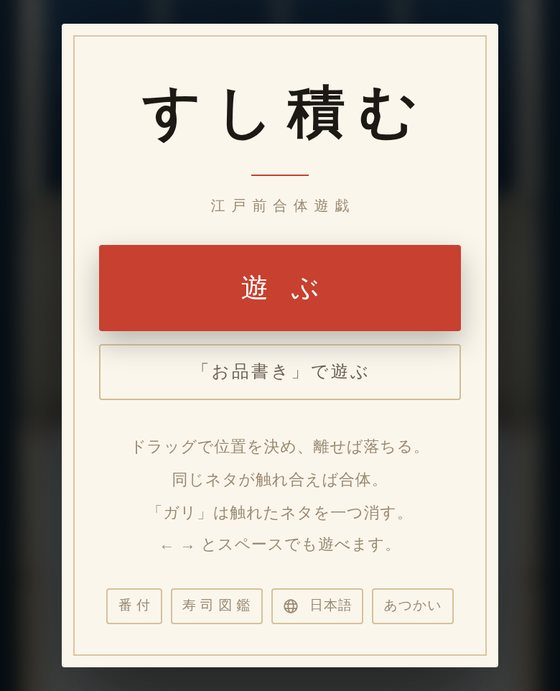
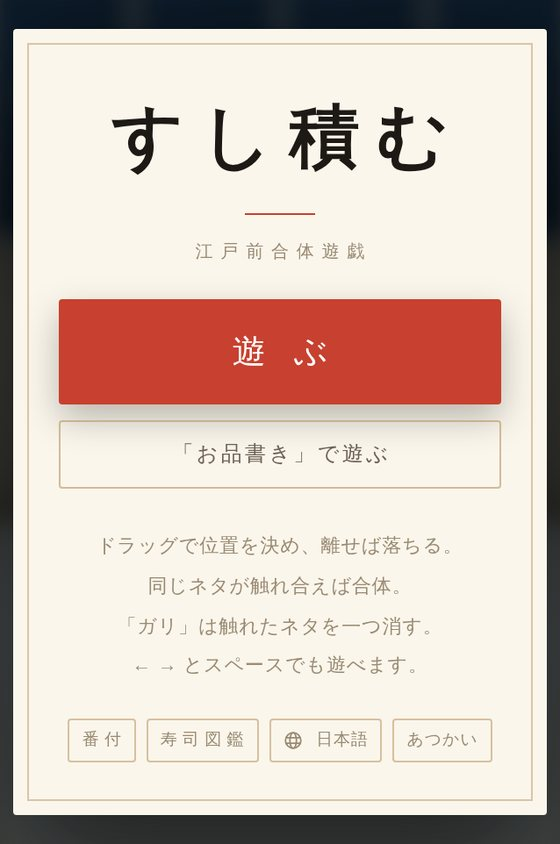
写真の並べ方を直す。頁どうしの行き来を足す
・作品ページ。縦横の比がばらばらな写真を幅で揃えていたので、
  背の高い一枚だけが伸びて列が崩れていた。高さで揃える形に変え、
  入りきらない幅では横に流す。全景（PC）を先に置き、
  その下に表紙・遊んでいるところ・寿司図鑑の三枚。
・遊び方の頁に寿司図鑑の写真を添えた。表の脇に置き、狭いと下に回る。
・表紙の写真を上下だけでなく左右も切り詰めた。
・書いてある寸法と本物が食い違う画像を、audit が見つけるようにした。
  食い違うと、絵が出た瞬間に文章が飛ぶ。わざと崩して効くのを確かめた。
・audit が index.html 以外の頁（遊び方）も見るようにした。
・profile の区分に 3D を足し、三列だと一枚だけ取り残されるので二列に。
・あつかいに、サイト側で覚えている唯一のもの（入口のあいさつの設定）
  を書いた。消したいときの行き先も contact に繋いだ。
・works の説明文を書き直した。

Claude-Session: https://claude.ai/code/session_01925V4x1e14mGAgLgzgK51o

diff --git a/site/style.css b/site/style.css
@@ -231,8 +231,9 @@ footer.site a:hover{color:var(--gold)}
 .note-row p{font-size:13.5px;color:var(--muted);margin:0 0 11px;line-height:1.85}
 @media(max-width:540px){.note-row{grid-template-columns:1fr;gap:8px;padding:20px 14px}}
 
-/* ---- 作っているものの三区分 ---- */
-.kinds{display:grid;grid-template-columns:repeat(3,1fr);gap:16px;margin:0 0 10px}
+/* ---- 作っているものの区分。四つあるので二列。
+     三列だと最後の一枚だけが取り残される ---- */
+.kinds{display:grid;grid-template-columns:repeat(2,1fr);gap:16px;margin:0 0 10px}
 .kind{border:1px solid var(--line);border-radius:6px;padding:22px 20px;
   background:linear-gradient(150deg,rgba(255,255,255,.05),rgba(255,255,255,.012));
   transition:border-color .5s var(--ease),transform .5s var(--ease)}
@@ -559,12 +560,29 @@ h2::after{transform-origin:left center;transition:transform 1.1s var(--ease) .1s
 .ct-soon a{color:var(--sky);text-underline-offset:4px}
 
 /* ---- 画面写真 ---- */
-.shots{display:grid;grid-template-columns:repeat(2,minmax(0,1fr));gap:16px;margin:34px 0 26px}
-.shots figure,.shot-wide{margin:0}
-.shots img,.shot-wide img{width:100%;height:auto;border-radius:6px;
+/* 縦横の比がばらばらな写真を並べるので、幅ではなく高さを揃える。
+   幅で揃えると、背の高い一枚だけが伸びて列が崩れる。
+   入りきらない幅では、横に流して見せる */
+.shots{display:flex;gap:16px;align-items:flex-end;margin:30px 0 26px;
+  overflow-x:auto;padding-bottom:8px;scroll-snap-type:x proximity;
+  scrollbar-width:thin}
+.shots figure{margin:0;flex:0 0 auto;scroll-snap-align:start}
+.shot-wide{margin:0}
+.shots img{height:330px;width:auto;max-width:100%}
+.shots img,.shot-wide img{border-radius:6px;
   border:1px solid var(--line);box-shadow:0 20px 46px -22px #000;display:block}
+.shot-wide img{width:100%;height:auto}
 .shots figcaption,.shot-wide figcaption{margin-top:9px;font-size:11.5px;letter-spacing:.1em;
   color:var(--dim)}
+@media(max-width:720px){.shots img{height:300px}}
 .shot-wide{margin:0 0 34px}
+/* 表の脇に一枚だけ添える形。狭いときは表の下に回す */
+.side-by{display:grid;gap:24px;align-items:start;margin:16px 0 10px}
+@media(min-width:900px){.side-by{grid-template-columns:minmax(0,1fr) 286px}}
+.shot-tall{margin:0}
+.shot-tall img{width:100%;height:auto;border-radius:6px;
+  border:1px solid var(--line);box-shadow:0 20px 46px -22px #000;display:block}
+.shot-tall figcaption{margin-top:9px;font-size:11.5px;letter-spacing:.1em;color:var(--dim)}
+@media(max-width:899px){.shot-tall{max-width:320px;margin:0 auto}}
 @media(max-width:520px){.shots{gap:10px}
-  .shots figcaption,.shot-wide figcaption{font-size:10.5px}}
+  .shots figcaption,.shot-wide figcaption,.shot-tall figcaption{font-size:10.5px}}

diff --git a/site/works/sushitsumu/index.html b/site/works/sushitsumu/index.html
@@ -39,11 +39,18 @@
 
   <p><a class="btn" href="/works/sushitsumu/play/">遊 ぶ</a></p>
 
-  <div class="shots rv">
+  <figure class="shot-wide rv">
+    <picture>
+      <source srcset="/assets/shots/desktop.webp" type="image/webp">
+      <img src="/assets/shots/desktop.jpg" alt="パソコンで遊んだところ。桶の左に得点、右に番付の柱が常に出ている" width="1200" height="831" loading="lazy" decoding="async">
+    </picture>
+    <figcaption>パソコンでは、桶の左に得点、右に番付が常に出ています</figcaption>
+  </figure>
+  <div class="shots rv" data-delay="80">
     <figure>
       <picture>
         <source srcset="/assets/shots/title.webp" type="image/webp">
-        <img src="/assets/shots/title.jpg" alt="すし積むの表紙。藍色の壁に「すし積む」の暖簾がかかり、下に白木のすし桶が置かれている" width="560" height="1212" loading="lazy" decoding="async">
+        <img src="/assets/shots/title.jpg" alt="すし積むの表紙。「すし積む」の題字の下に「遊ぶ」の札が並ぶ" width="560" height="844" loading="lazy" decoding="async">
       </picture>
       <figcaption>表紙</figcaption>
     </figure>
@@ -54,14 +61,14 @@
       </picture>
       <figcaption>遊んでいるところ</figcaption>
     </figure>
+    <figure>
+      <picture>
+        <source srcset="/assets/shots/dex.webp" type="image/webp">
+        <img src="/assets/shots/dex.jpg" alt="寿司図鑑の画面。十二種のうち十種が集まり、二つが ??? のまま残っている" width="560" height="811" loading="lazy" decoding="async">
+      </picture>
+      <figcaption>寿司図鑑</figcaption>
+    </figure>
   </div>
-  <figure class="shot-wide rv" data-delay="80">
-    <picture>
-      <source srcset="/assets/shots/desktop.webp" type="image/webp">
-      <img src="/assets/shots/desktop.jpg" alt="パソコンで遊んだところ。画面の右に番付の柱が常に出ている" width="1200" height="750" loading="lazy" decoding="async">
-    </picture>
-    <figcaption>パソコンでは、画面の右に番付が常に出ています</figcaption>
-  </figure>
 
   <h2 class="rv">どんなゲームか</h2>
   <p>桶の上からシャリを落とします。同じネタ同士が触れると、ひとつ上のネタに変わる。シャリが玉子に、玉子がエビに、エビがサーモンに——そうやって十一段を上っていきます。</p>

diff --git a/site/profile/index.html b/site/profile/index.html
@@ -4,7 +4,7 @@
 <meta charset="utf-8">
 <meta name="viewport" content="width=device-width, initial-scale=1">
 <title>Profile — Koshin Studio について（個人制作）</title>
-<meta name="description" content="Koshin Studio について。ブラウザゲーム、スマートフォンのアプリ、Web サイトを、ひとりで作っています。">
+<meta name="description" content="Koshin Studio について。ブラウザゲーム、スマートフォンのアプリ、Web サイト、3D モデルを、設計から絵と音まで、ひとりで作っています。">
 <meta name="theme-color" content="#070c17">
 <meta property="og:title" content="Profile — Koshin Studio">
 <meta property="og:description" content="ブラウザゲーム、スマートフォンのアプリ、Web サイトを、ひとりで作っています。">
@@ -34,7 +34,7 @@
   <nav class="crumbs" aria-label="現在地"><a href="/">Koshin Studio</a><i aria-hidden="true">›</i><span aria-current="page">Profile</span></nav>
   <h1>Profile</h1>
   <div class="rule"></div>
-  <p class="lead">ひとりで作っています。<br>ブラウザゲーム、スマートフォンのアプリ、Web サイト。</p>
+  <p class="lead">ひとりで作っています。<br>ブラウザゲーム、スマートフォンのアプリ、Web サイト、3D モデル。</p>
 
   <h2 class="rv">作っているもの</h2>
   <div class="kinds">
@@ -44,6 +44,8 @@
       <p>つかうもの。スマートフォンで日常的に使う道具を作ります。機能を足すより、迷わず終わることを優先します。</p></div>
     <div class="kind rv" data-delay="140"><h3>Sites<i>サイト</i></h3>
       <p>読ませるもの。速く開いて、読みやすく、余計なものが動かない。中身が主役になる作りを心がけています。</p></div>
+    <div class="kind rv" data-delay="210"><h3>3D<i>3Dモデル</i></h3>
+      <p>かたちを起こすもの。商品のイメージ、キャラクター、Web に載せる立体。用途に合わせて起こします。</p></div>
   </div>
 
   <h2 class="rv">作り方</h2>

diff --git a/site/works/sushitsumu/guide.html b/site/works/sushitsumu/guide.html
@@ -41,6 +41,7 @@
 
   <h2 class="rv">ネタ十一段</h2>
   <p>下から順に育てていきます。数字は合体したときに入る点です。</p>
+  <div class="side-by">
   <div class="scroll rv"><table>
     <tr><th>段</th><th>ネタ</th><th class="n">大きさ</th><th class="n">合体で入る点</th></tr>
     <tr><td>1</td><td>シャリ</td><td class="n">直径 30</td><td class="n">—</td></tr>
@@ -55,6 +56,15 @@
     <tr><td>10</td><td>伊勢海老</td><td class="n">184 × 86</td><td class="n">950</td></tr>
     <tr><td>11</td><td>ゴールデンすし桶</td><td class="n">直径 168</td><td class="n">1,500</td></tr>
   </table></div>
+  <figure class="shot-tall rv" data-delay="80">
+    <picture>
+      <source srcset="/assets/shots/dex.webp" type="image/webp">
+      <img src="/assets/shots/dex.jpg" alt="寿司図鑑の画面。十二種のうち十種が集まり、二つが ??? のまま残っている"
+           width="560" height="811" loading="lazy" decoding="async">
+    </picture>
+    <figcaption>一度でも作ったネタは「寿司図鑑」に残ります</figcaption>
+  </figure>
+  </div>
   <p class="note">桶の内側の幅は 336。金のすし桶はちょうどその半分です。落ちてくるのはシャリ・玉子・エビの三種だけなので、上の段はすべて自分で作ることになります。</p>
 
   <h3>金のすし桶を二つ作ると</h3>

diff --git a/site/works/index.html b/site/works/index.html
@@ -4,10 +4,10 @@
 <meta charset="utf-8">
 <meta name="viewport" content="width=device-width, initial-scale=1">
 <title>Works — ブラウザゲーム・アプリ・Web サイトの制作一覧 — Koshin Studio</title>
-<meta name="description" content="作ったものの一覧。ブラウザゲーム、スマートフォンのアプリ、Web サイト。">
+<meta name="description" content="これまでに作ったものの一覧。ブラウザゲーム、スマートフォンのアプリ、Web サイト、3D モデル。分野で絞り込めます。">
 <meta name="theme-color" content="#080d16">
 <meta property="og:title" content="Works — ブラウザゲーム・アプリ・Web サイトの制作一覧 — Koshin Studio">
-<meta property="og:description" content="作ったものの一覧。ブラウザゲーム、スマートフォンのアプリ、Web サイト。">
+<meta property="og:description" content="これまでに作ったものの一覧。ブラウザゲーム、スマートフォンのアプリ、Web サイト、3D モデル。分野で絞り込めます。">
 <meta property="og:type" content="website">
 <link rel="icon" href="/favicon.svg" type="image/svg+xml">
 <script>document.documentElement.className+=" js"</script>

diff --git a/site/privacy/index.html b/site/privacy/index.html
@@ -43,9 +43,10 @@
 
   <h2 class="rv">端末の中だけに残るもの</h2>
   <p>高得点・寿司図鑑・言葉の設定・音の設定は、<strong>その端末の中にだけ</strong>残ります。番付に載せなければ、外へは何も出ません。ブラウザの保存領域を消せば、いつでも消えます。</p>
+  <p>このサイト側で覚えているのも一つだけで、<strong>入口のあいさつ（合成音声）を流すかどうか</strong>の設定です。これも端末の中にだけ残り、こちらへは届きません。</p>
 
   <h2 class="rv">預けたものを消したいとき</h2>
-  <p>番付に載せた記録を消したい場合は、載せた名前を添えて連絡してください。確認のうえ削除します。</p>
+  <p>番付に載せた記録を消したい場合は、載せた名前を添えて<a href="/contact/">こちら</a>までご連絡ください。確認のうえ削除します。</p>
 
   <h2 class="rv">置き場所</h2>
   <p>このサイトと番付のサーバーは Cloudflare 上で動いています。番付のデータは Cloudflare の D1（データベース）に保存されます。</p>

diff --git a/site/tools/images.py b/site/tools/images.py
@@ -35,7 +35,7 @@ for src, name, widths in JOBS:
 
 # 画面の周りは暗く落としてあるので、明るい所だけに切り詰める。
 # 縦（'y'）なら上下の余白を、横（'x'）なら左右の余白を落とす。
-TRIM = {'title': 'y', 'desktop': 'x'}
+TRIM = {'title': 'xy', 'dex': 'y', 'desktop': 'x'}
 BRIGHT = 78          # これより明るい点が一つでもあれば「中身がある」とみなす
 PAD = 0.02           # 切り口に少しだけ余白を残す
 
@@ -77,8 +77,8 @@ if os.path.isdir(raw):
         if not os.path.exists(src):
             continue
         im = Image.open(src).convert('RGB')
-        if name in TRIM:
-            im = trim(im, TRIM[name])
+        for axis in TRIM.get(name, ''):
+            im = trim(im, axis)
         h = round(im.height * w / im.width)
         r = im.resize((w, h), Image.LANCZOS)
         r.save(os.path.join(shots, name + '.webp'), 'WEBP', quality=80, method=6)
